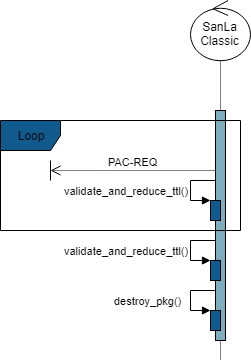
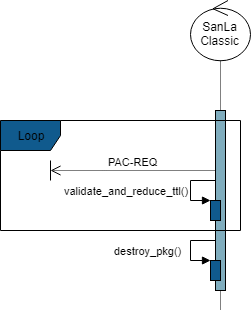
Fix duplicate step in PAC-REQ diagram, describe error case

diff --git a/docs/specifications/TransmissionErrors.md b/docs/specifications/TransmissionErrors.md
@@ -6,20 +6,46 @@ This document provides possible error cases on each state of a transmission and 
 
 Package is being broadcasted to nearby devices.
 
-**Identified error cases**
-* No listening devices in range.
-* Listening device receives a distorted packet
+### Error Case: No listening devices in range or listening device receives a distorted packet.
 
-### Sequence diagram
+A device broadcasts available package but no listening devices are in range of the transmission or listening device receives a distorted packet.
+
+### Sequence Diagram
 ![alt text][err_bro]
 
 #### Steps
 1. Person sends a message package.
-2. Device broadcasts the message, without any listening device to successfully reveive the message sent.
-    * Logic will be the same for both identified error cases.
+2. Device broadcasts the message, without any listening device to successfully reveive the sent message.
 3. Validate if remaining Time To Live exists and reduce.
-    * Loop steps 2 and 3 until Time To Live reaches zero.
+    * Repeat steps 2 and 3 until Time To Live reaches zero.
 4. Display error message.
 5. Destroy package.
 
+## PAC-REQ
+
+Packet is being requested from nearby devices.
+
+**TODO:**
+* Listening device receives a distorted packet.
+    * PAC-REQ does not contain payload, how to handle?
+* Listening device does not have requested packet.
+    * Is not an actual error, many devices will not have a packet.
+
+### Error case: No listening devices in range
+
+A device requests around for a single packet belonging to a certain package, but no listening devices are in range of the transmission.
+
+#### Sequence Diagram
+![alt text][err_pac_req]
+
+#### Steps
+1. Device requests a packet, without any listening device in range.
+2. Validate if Time To Live remaining and reduce by one.
+    * Repeat steps 1 and 2 until Time To Live reaches zero.
+3. Destroy and forget received package.
+
+TODO:
+4. Blacklist package id to not care next time when broadcasted?
+
 [err_bro]: https://github.com/Monni/SanLa-classic/blob/docs/docs/sequence_diagrams/error_cases/err_bro.png "Error in BRO state"
+[err_pac_req]: https://github.com/Monni/SanLa-classic/blob/docs/docs/sequence_diagrams/error_cases/err_pac_req.png "Error in PAC-REQ state"
